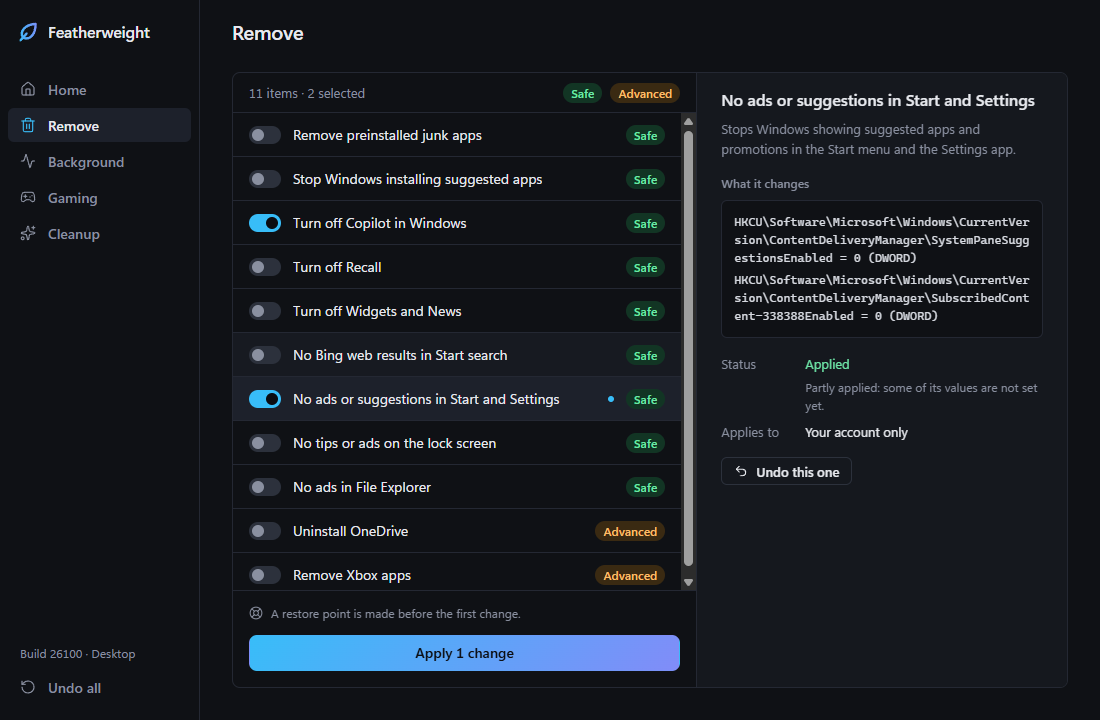
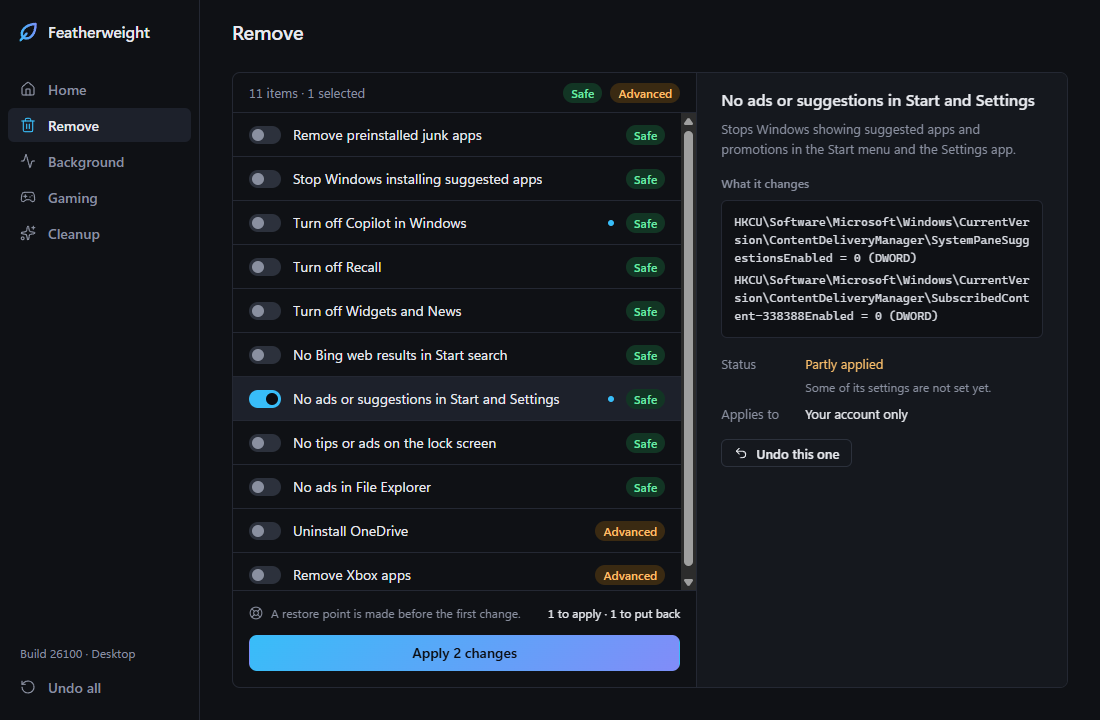
fix: keep undo results when apply fails; partial status and split counts in section pages

diff --git a/src/pages/Section.svelte b/src/pages/Section.svelte
@@ -101,13 +101,16 @@
     // power plan for another) must put the old one back first, or undoing it
     // afterwards would overwrite the new one. They still wait for the
     // restore point and confirmation steps.
-    let undoReport: UndoReport | null = null;
+    // A holder, so TypeScript doesn't narrow it to null across the closure.
+    const done: { undo: UndoReport | null; step: "apply" | "undo" } = { undo: null, step: "apply" };
     const runUndo = async () => {
-      if (undoIds.length === 0 || undoReport) return;
+      if (undoIds.length === 0 || done.undo) return;
       phase = "undo";
       progress = null;
-      undoReport = await api.undoTweaks(undoIds, false);
-      noteChangedSince(undoReport);
+      done.step = "undo";
+      done.undo = await api.undoTweaks(undoIds, false);
+      done.step = "apply";
+      noteChangedSince(done.undo);
     };
     try {
       let applyGroups: ResultGroup[] = [];
@@ -145,13 +148,24 @@
       }
       // Cancelling at the restore point question stops everything.
       if (!cancelled) await runUndo();
-      if (applyGroups.length > 0 || undoReport) summary?.show(undoReport, applyGroups);
+      if (applyGroups.length > 0 || done.undo) summary?.show(done.undo, applyGroups);
       else {
         nothingChanged = true;
         ran = false;
       }
     } catch (e) {
-      error = `Couldn't apply: ${message(e)}`;
+      if (done.step === "undo") {
+        error = `Couldn't put back: ${message(e)}`;
+      } else if (done.undo) {
+        // The undos already ran: say so, next to what failed to apply.
+        const detail = message(e);
+        const title = (id: string) => app.tweaks.find((t) => t.id === id)?.title ?? id;
+        summary?.show(done.undo, [
+          { label: "Failed to apply", tone: "bad", items: applyIds.map((id) => ({ title: title(id), detail })) },
+        ]);
+      } else {
+        error = `Couldn't apply: ${message(e)}`;
+      }
     } finally {
       unlisten?.();
       stopBusy();
@@ -237,6 +251,9 @@
         {:else}
           <LifeBuoy size={14} strokeWidth={1.75} aria-hidden="true" />
           <p>A restore point is made before the first change.</p>
+          {#if pending.apply.length > 0 && pending.undo.length > 0}
+            <p class="split num">{pending.apply.length} to apply · {pending.undo.length} to put back</p>
+          {/if}
         {/if}
       </div>
       <button
@@ -255,6 +272,7 @@
   <ExplainerPanel
     id={explainerId}
     tweak={selected}
+    wanted={selected ? toggles[selected.id] : false}
     allUsers={!!selected && allUsers.includes(selected.id)}
     onallusers={(on) => {
       const id = selected?.id;
@@ -365,6 +383,12 @@
     height: 100%;
     background: var(--accent);
     transition: width var(--duration) var(--ease);
+  }
+
+  .split {
+    margin-left: auto;
+    white-space: nowrap;
+    color: var(--text);
   }
 
   .error {

diff --git a/src/components/ExplainerPanel.svelte b/src/components/ExplainerPanel.svelte
@@ -7,6 +7,8 @@
   interface Props {
     id: string;
     tweak: TweakView | null;
+    /** Where the switch is now (may differ from the PC until applied). */
+    wanted?: boolean;
     allUsers: boolean;
     onallusers: (on: boolean) => void;
     onundo: () => void;
@@ -19,6 +21,7 @@
   let {
     id,
     tweak,
+    wanted = false,
     allUsers,
     onallusers,
     onundo,
@@ -29,6 +32,8 @@
 
   const uid = $props.id();
   const on = $derived(tweak?.status.kind === "applied" || tweak?.status.kind === "partial");
+  /** An applied app removal switched off: undo can't bring the apps back. */
+  const offIrreversible = $derived(!!tweak?.irreversible && on && !wanted);
 </script>
 
 <aside {id} class="explainer" aria-labelledby={tweak ? `${uid}-title` : undefined} aria-label={tweak ? undefined : "Details"}>
@@ -54,8 +59,8 @@
           {#if tweak.status.kind === "applied"}
             <span class="ok">Applied</span>
           {:else if tweak.status.kind === "partial"}
-            <span class="ok">Applied</span>
-            <span class="note">Partly applied: some of its values are not set yet.</span>
+            <span class="warn">Partly applied</span>
+            <span class="note">Some of its settings are not set yet.</span>
           {:else}
             Not applied
           {/if}
@@ -85,6 +90,13 @@
         />
         <span>Also remove for all users</span>
       </label>
+    {/if}
+
+    {#if offIrreversible}
+      <div class="changed" role="status">
+        <CircleAlert size={16} strokeWidth={1.75} aria-hidden="true" />
+        <p>Turning this off won't bring removed apps back — reinstall them from the Microsoft Store.</p>
+      </div>
     {/if}
 
     {#if changedSince}
